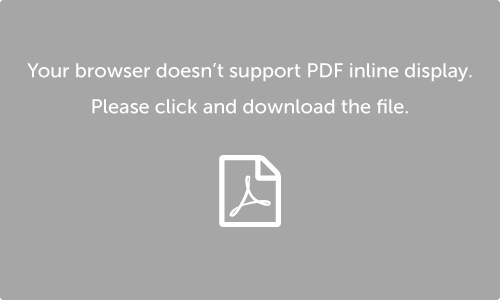
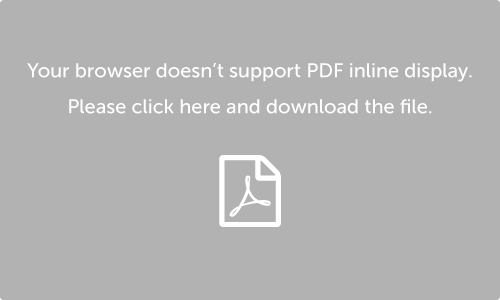
Uncommented CSS to display the PDF background and updated the PDF image
--HG--
branch : UI

Changed region(s): [[0.12, 0.33, 0.87, 0.39]]

diff --git a/assets/scss/annotated-catalogue.scss b/assets/scss/annotated-catalogue.scss
@@ -70,7 +70,7 @@ ul.search-results {
 
 /*** PDF display fallback ***/
 
-/* #view-full-pdf canvas {
+#view-full-pdf canvas {
 	background: url("/static/images/PDF-link.png") center no-repeat;
 	background-size: 100%;
-} */
+}
